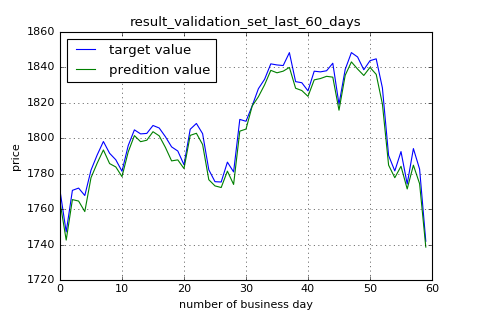
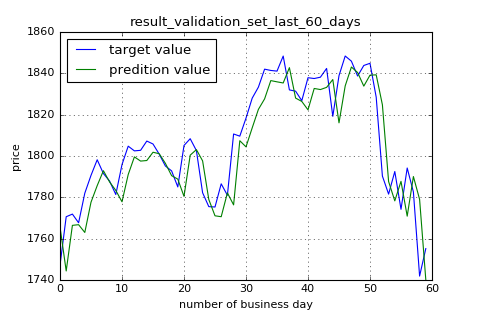
add tensorboard pics and update sample pics

diff --git a/README.md b/README.md
@@ -40,7 +40,9 @@ using `spyder` to run stock.py (Recommended)
 ![sample_plot_2](./assets/result_training_set_last_60_days.png)  
 ![sample_plot_3](./assets/result_validation_set_full.png)  
 ![sample_plot_4](./assets/result_validation_set_last_60_days.png)  
-
+![tb_plot_1](./assets/tb_graph.png)  
+![tb_plot_2](./assets/tb_cost.png)  
+  
 **Results (may fluctuate):**  
 Final total_loss:  
   
